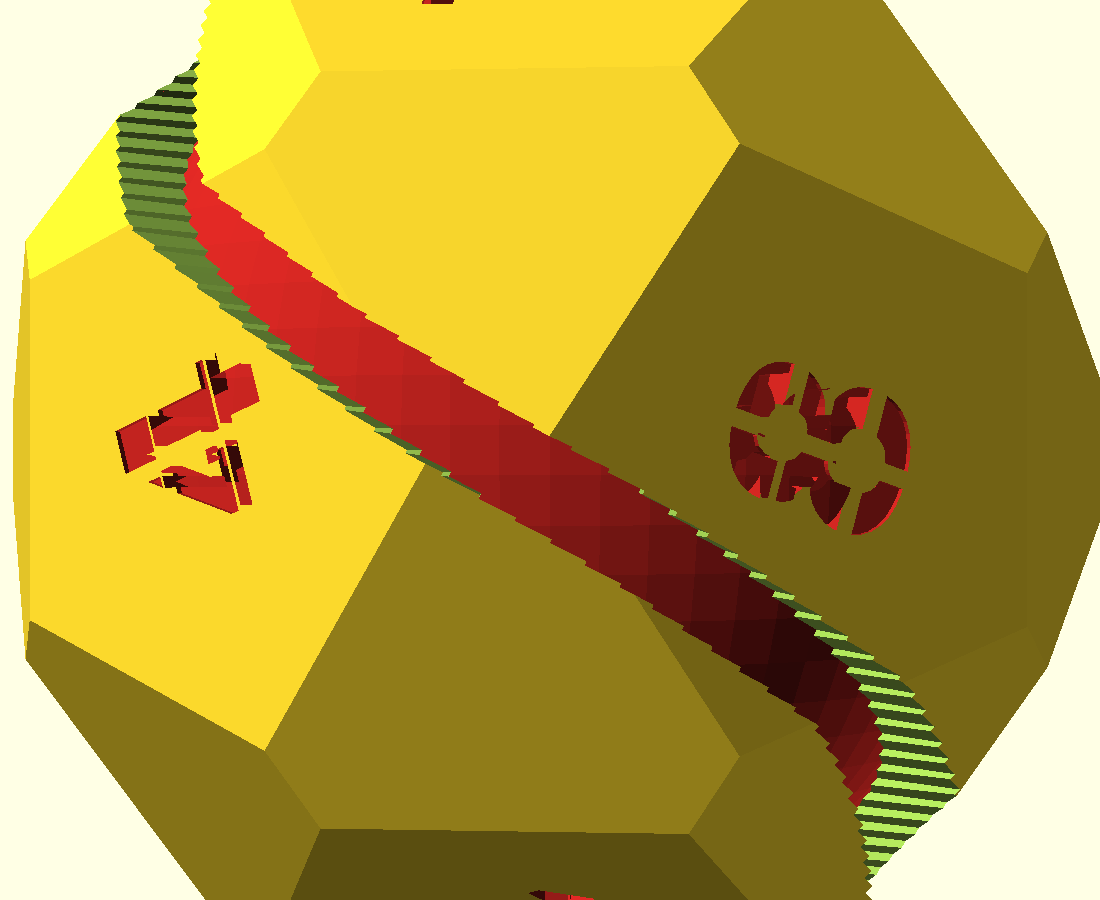
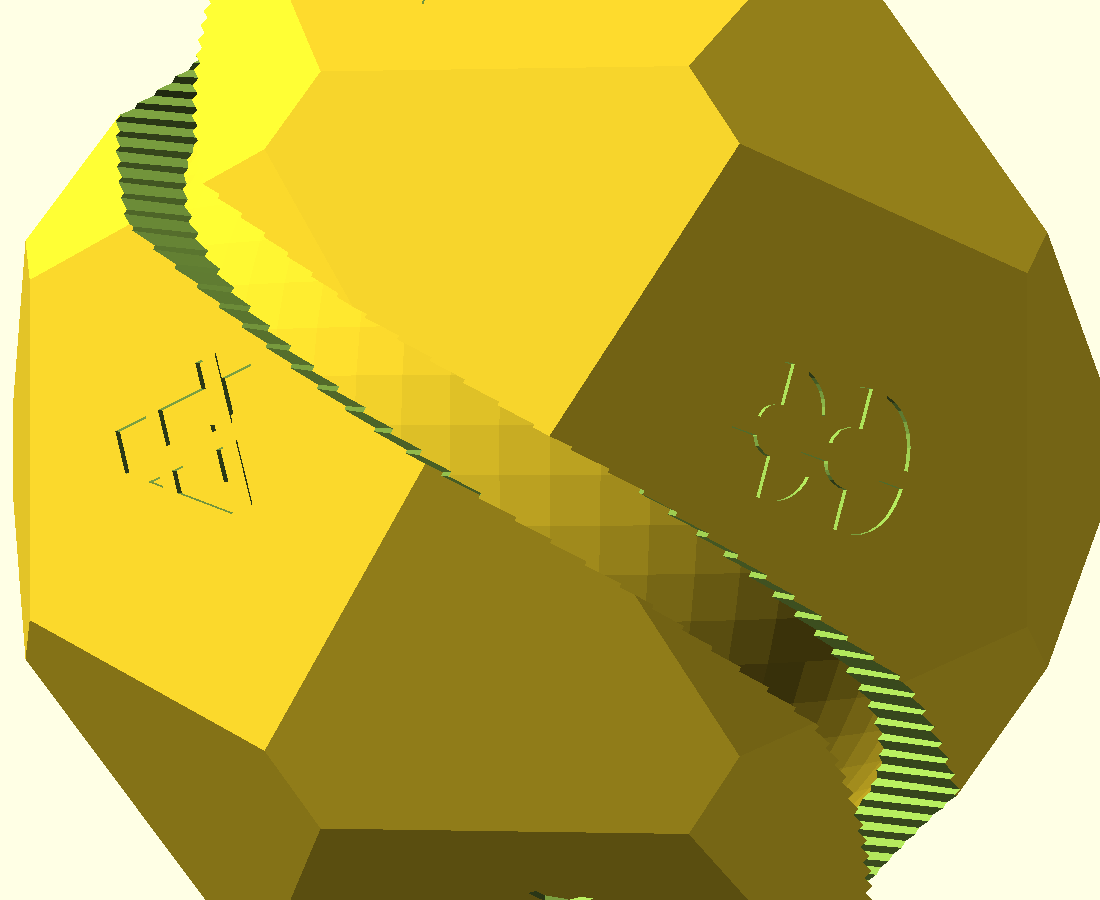
fix(ovodyo): what-ships clearance + Jane freeze-window honesty
Balls sit in front of the truss on a shared ground plane (clear of wing
tips — prior on-axis placement nested the nose under the pole). Desk-space
claim split for v0 vs post-#604; slot-path CGAL render; slot-corner caption
matches pixels; plug spare tip. Refs #768.

diff --git a/designs/ovodyo/README.md b/designs/ovodyo/README.md
@@ -34,8 +34,11 @@ re-creation, in print-bench, of the "ovodyo" clock by Mectolab — built as a
 > follow the care playbook in NOTES.md rather than treating STABLE as a claim.
 > There's no committed two-tone reveal render yet ([#600](https://github.com/shaiss/print-bench/issues/600)). See NOTES.md.
 >
-> **Desk space:** needs about **40 cm of clear desk** (383 mm base) and **~17 cm of
-> headroom** (balls sit at ~124 mm centres, ~163 mm overall height).
+> **Desk space:** the base alone is **383 mm**. v0 display (balls pole-flat in
+> front of the base — see the what-ships shot) keeps that length and needs about
+> **~20 cm of depth** and **~8 cm tall**. The **40 cm clear desk + ~17 cm
+> headroom** figure is the post-[#604](https://github.com/shaiss/print-bench/issues/604) stalk clock (balls at ~124 mm
+> centres, ~163 mm overall).
 
 ![Hero — the whole clock](previews/hero.png)
 
@@ -45,8 +48,9 @@ re-creation, in print-bench, of the "ovodyo" clock by Mectolab — built as a
 
 *What a single-material print looks like (OpenSCAD default yellow — one colour).
 Shells with void numerals and the bare truss; no gear theatre. Balls sit on
-their pole pentagons beside the base, the interim display until [#604](https://github.com/shaiss/print-bench/issues/604)
-lands a retained mount. The two-tone hero above is the intent.*
+their pole pentagons in front of the base (clear of the wing tips), the interim
+display until [#604](https://github.com/shaiss/print-bench/issues/604) lands a retained mount. The two-tone
+hero above is the intent.*
 
 ![4-view contact sheet](previews/contact-sheet.png)
 
@@ -217,9 +221,11 @@ pour, and lift from the centre segment so the taped ends don't peel).
 each ballast pocket with Ø2 mm steel shot → 2. wedge a `base-plug` into each port
 → 3. slide the keel into the centre segment** until it drops onto the deck struts
 (it seats one way only). Fill and plug *before* you slide — a seated keel has no
-port access. Weigh the pour first (~55 g total starting fill); the Ø3.2 mm ports
-are tight for Ø2 mm shot — tap and shake as you pour so the shot doesn't arch in
-the throat. Press a Ø5 mm silicone bumper into each of the four foot recesses.
+port access. Print the plugs on the coffee-break plate with the other base parts,
+never solo (a Ø5 mm part is easy to lose; a spare is cheap insurance). Weigh the
+pour first (~55 g total starting fill); the Ø3.2 mm ports are tight for Ø2 mm
+shot — tap and shake as you pour so the shot doesn't arch in the throat. Press a
+Ø5 mm silicone bumper into each of the four foot recesses.
 
 The real
 clock is driven by a geared stepper through a bevel differential and homed with a

diff --git a/designs/ovodyo/previews/CAMERAS.md b/designs/ovodyo/previews/CAMERAS.md
@@ -9,18 +9,19 @@ fixed once reviewed; a new region gets a new line).
   stalks over the tapered truss, with the red gear-trains and PCB in the base.
 - **hours-ball** — a single ball three-quarter: flush pentagon plaques, bold
   cut-through numerals, helical slot framing the red interior.
-- **slot-corner** — close three-quarter aimed at the helical slot where it
-  crosses a corner facet. Added for #768 so the opened corner cut is visible as
-  a shot, not only asserted in NOTES (new region = new line, never a reframe of
-  `hours-ball`).
+- **slot-corner** — close three-quarter of numeral plaques with the helical slot
+  peeking at the frame edge (original #768 evidence ask; the corner-crossing
+  story is carried by `slot-path` after Drik R2 noted this framing). Description
+  corrected to match the committed pixels — freeze rule: no reframe.
 - **slot-path** — near-equator view of the helical slot band cutting across
-  corner facets. Added after Drik R2 noted `slot-corner` mostly framed numerals;
-  new line, not a reframe of `slot-corner`.
+  corner facets (the #768 corner-cut money shot). CGAL `render` so cut faces
+  stay one colour. Added after Drik R2 noted `slot-corner` framed numerals;
+  new line, not a reframe.
 - **base-mech** — the base drivetrain alone: geared stepper + reduction train at
   each pod, bevel take-off up each stalk, central electronics bay.
 - **base-mech-in-situ** — the same drivetrain seated in the truss so the gears
   have scale and a home (companion to frozen `base-mech`; new line).
 - **what-ships** — single-material honesty shot: shells + bare truss, balls
-  standing pole-down beside the base (the interim display; not on stalks).
-  Rendered with CGAL (`render`) so cut faces stay one colour. Beside the v0
-  banner; must not replace the hero.
+  standing pole-down *in front of* the base on a shared ground plane (clear of
+  wing tips — an earlier on-axis placement nested the nose under the pole).
+  CGAL `render`. Beside the v0 banner; must not replace the hero.
